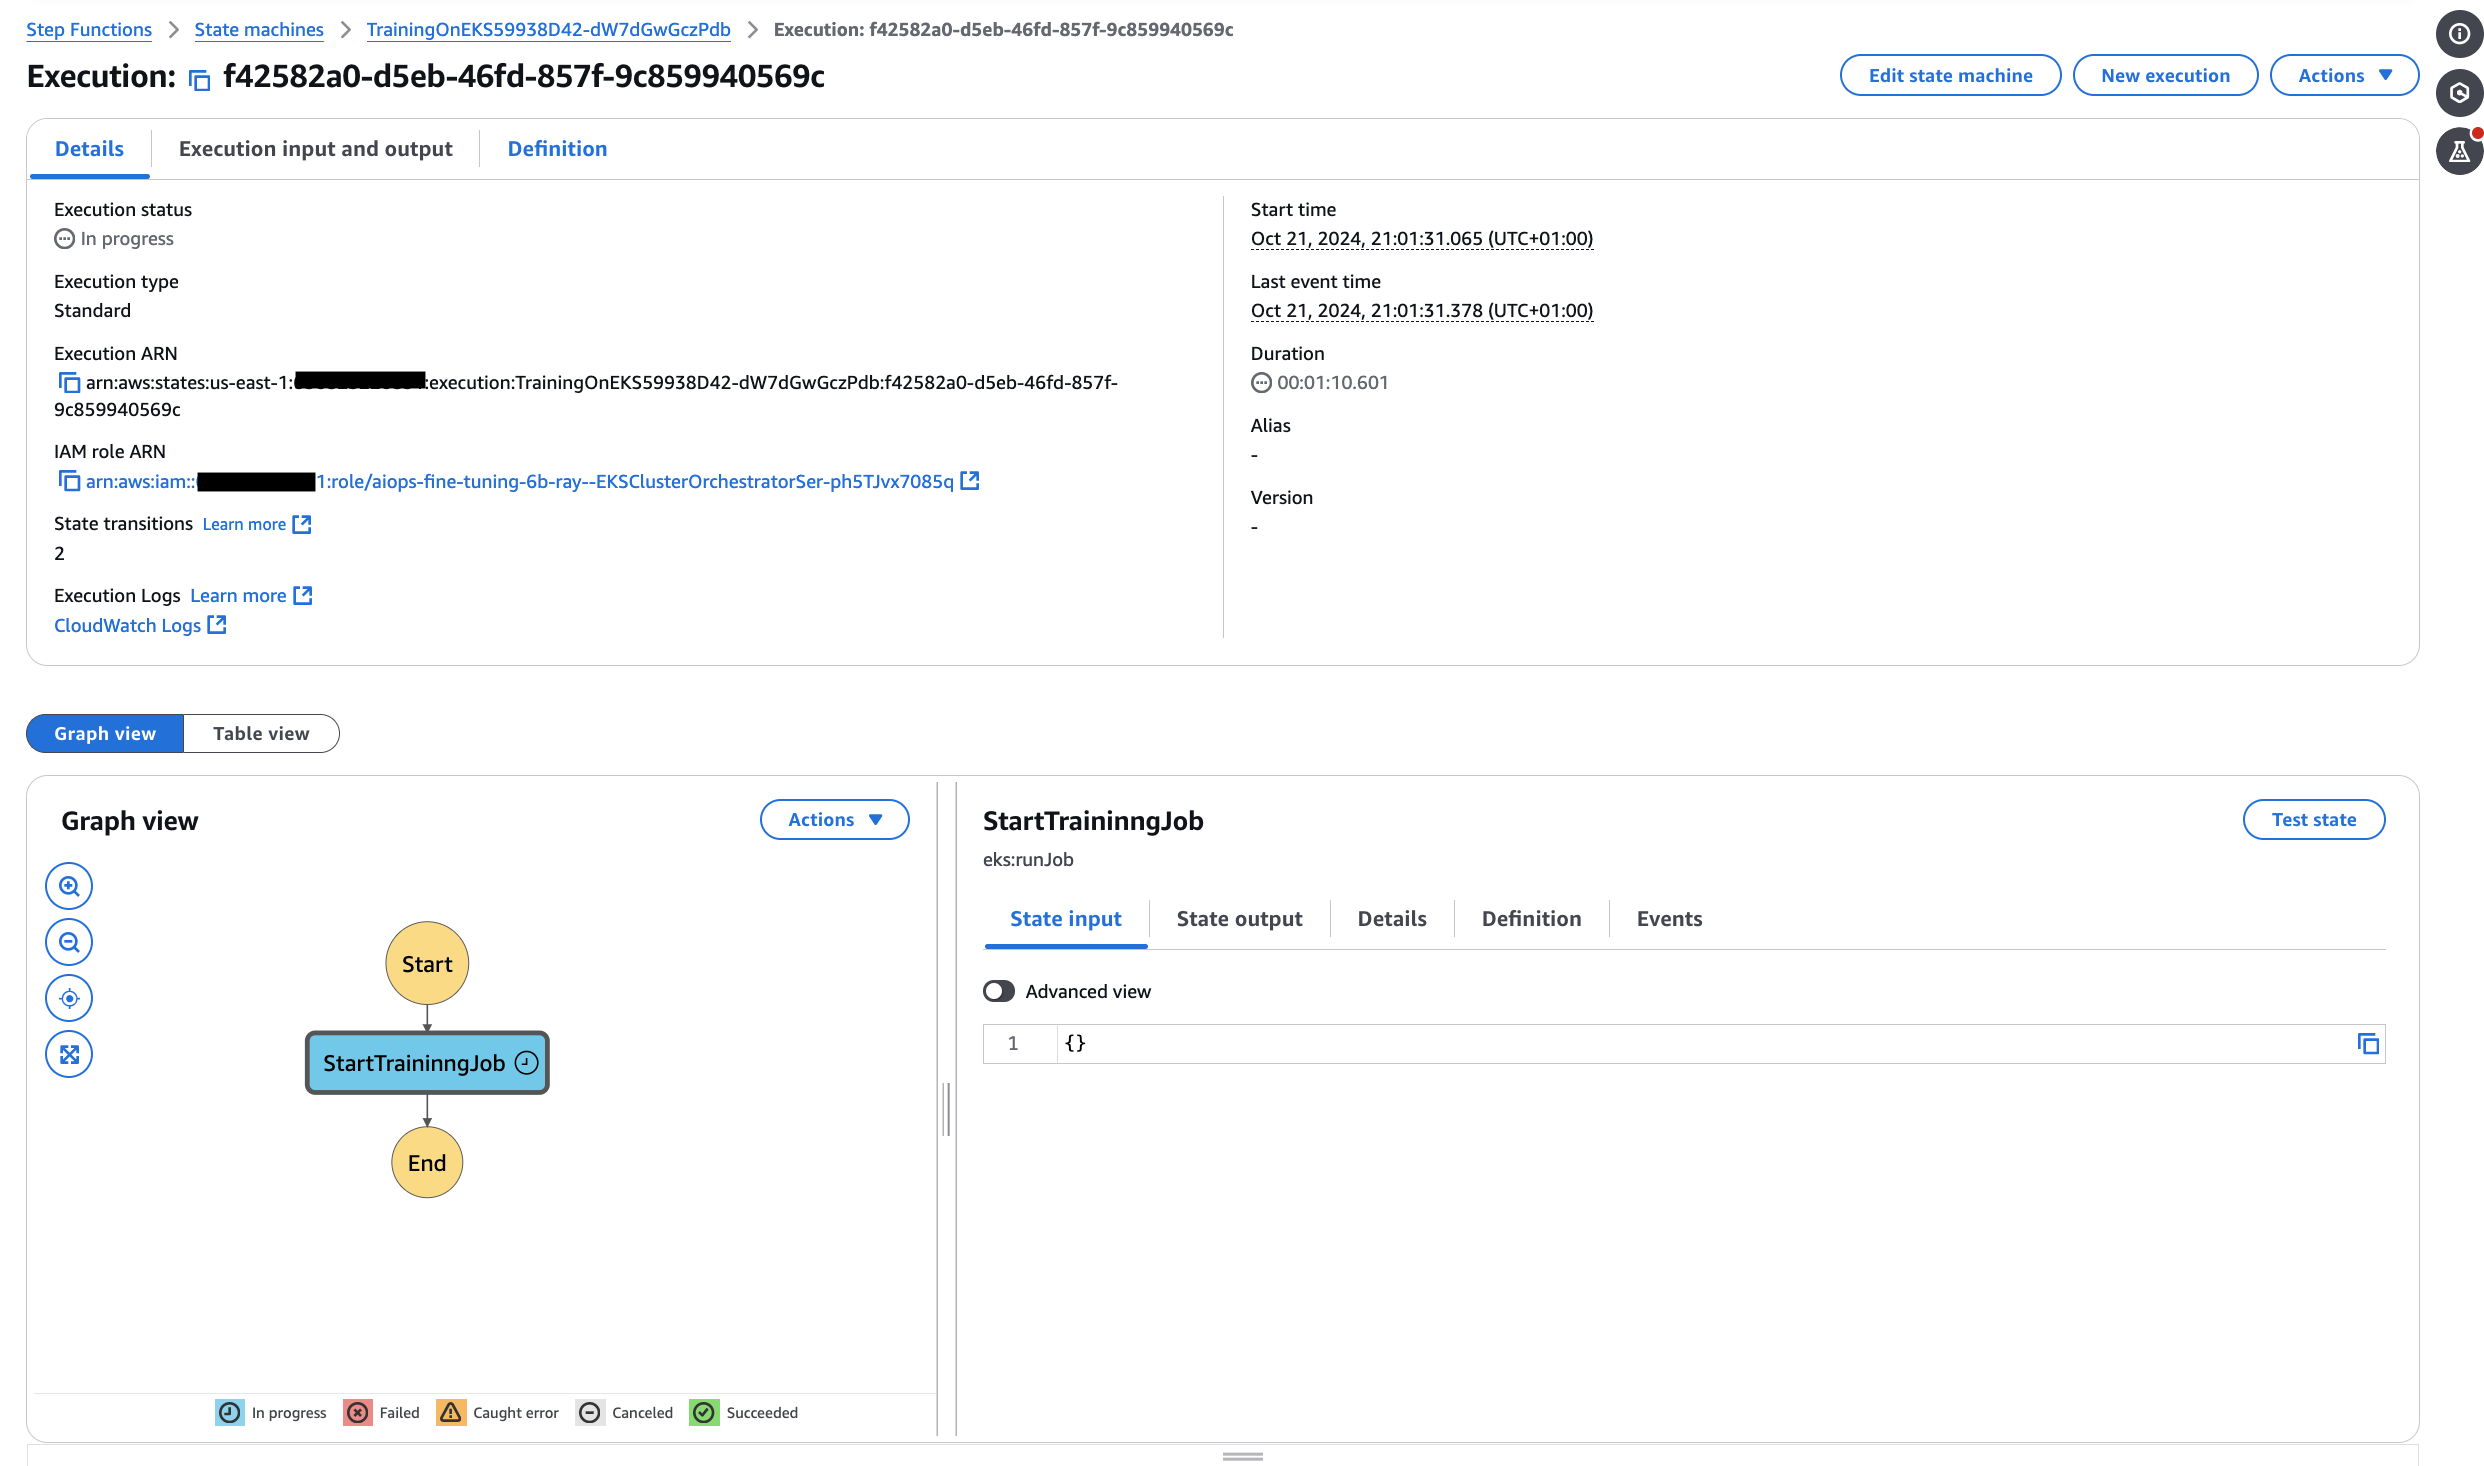
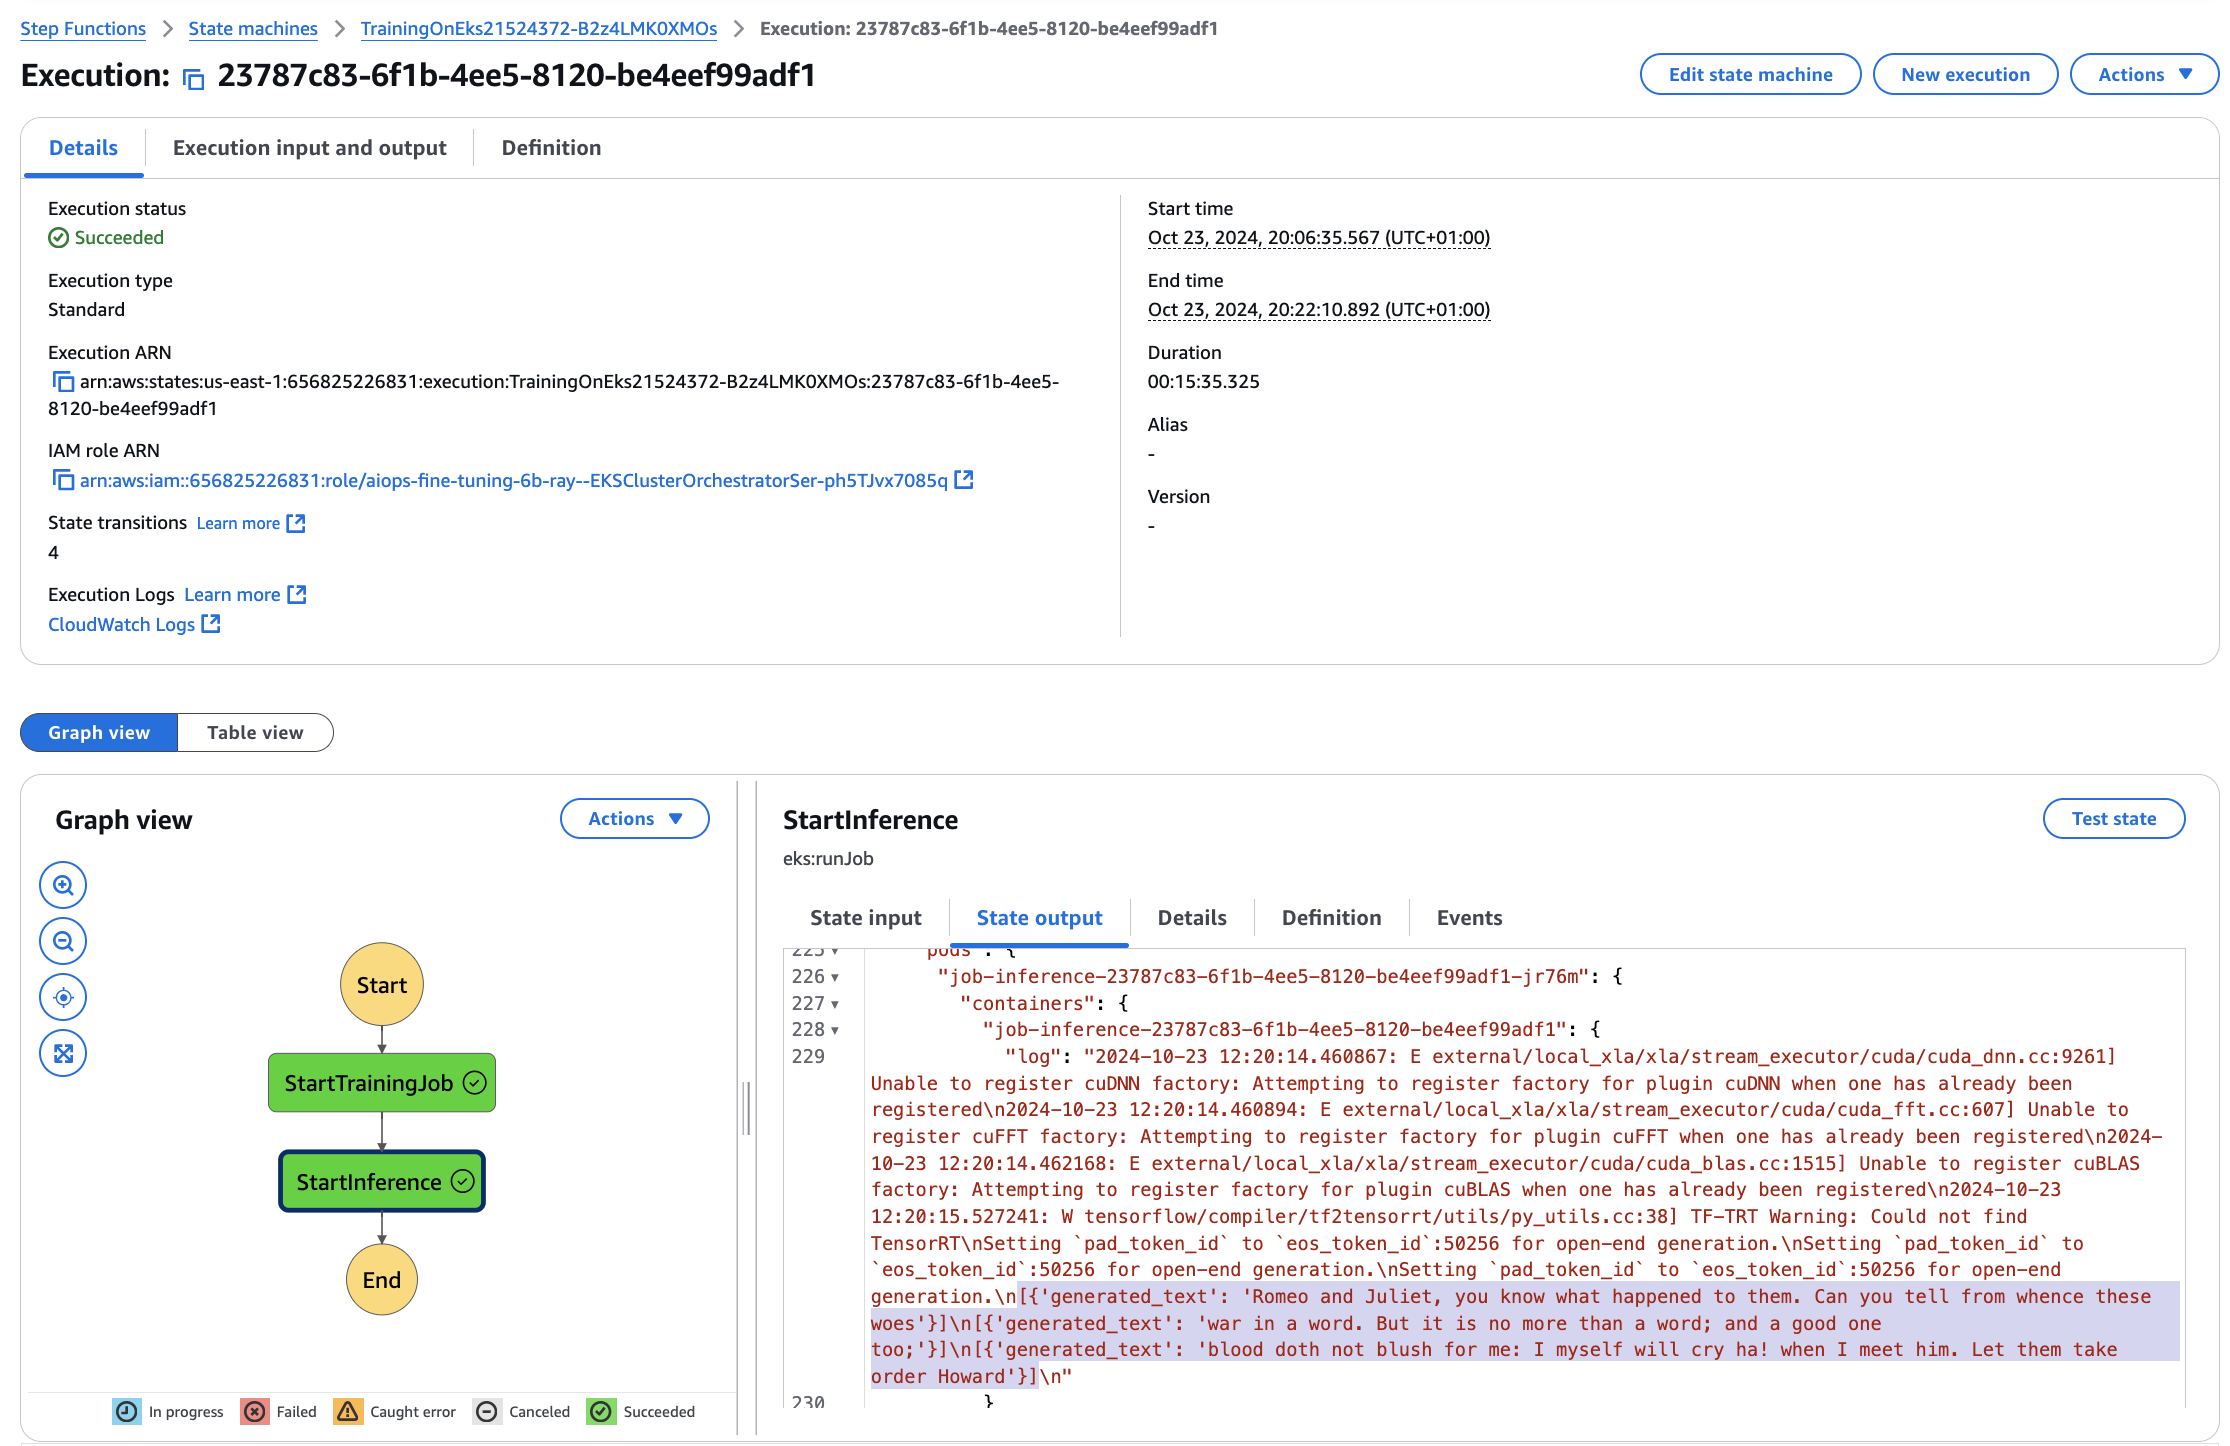
update docs

diff --git a/modules/eks/ray-orchestrator/README.md b/modules/eks/ray-orchestrator/README.md
@@ -2,7 +2,7 @@
 
 ## Description
 
-This module orchestrates submission of a training job to the Ray Cluster using AWS Step Functions.
+This module orchestrates submission of a Ray training job to the Ray Cluster and an inference job using AWS Step Functions.
 
 ## Inputs/Outputs
 
@@ -22,6 +22,8 @@ This module orchestrates submission of a training job to the Ray Cluster using A
 
 - `step_function_timeout` - Step function timeout in minutes. Defaults to `360`
 - `data_bucket_name` - Name of the bucket to grant service account permissions to
+- `pvc_name` - Persistent volume claim name. Empty by defeault. If no PVC is provided, the volume will not be mounted.
+- `dra_export_path` - Persistent volume mount path. Defaults to `/ray/export/`. Must start with a `/`.
 - `tags` - A dictionary of additional tags to apply to all resources. Defaults to None
 
 ## User Guide
@@ -111,6 +113,15 @@ parameters:
         group: base
         name: buckets
         key: ArtifactsBucketName
+  - name: PvcName
+    valueFrom:
+      moduleMetadata:
+        group: integration
+        name: lustre-on-eks
+        key: PersistentVolumeClaimName
+  - name: DraExportPath
+    valueFrom:
+      parameterValue: draExportPath
 ```
 
 ## Module Metadata Outputs
